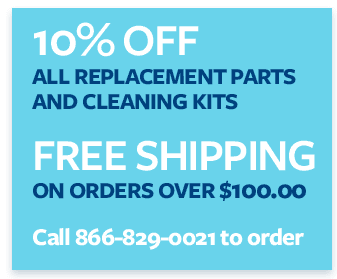
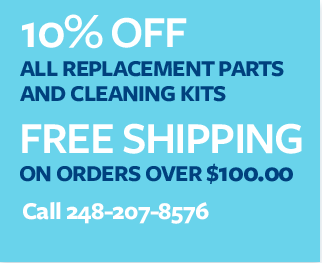
accessory & trade-in updates

diff --git a/src/store.js b/src/store.js
@@ -2,7 +2,7 @@ export default {
     accessories: {
         intro: [
             "Central vacuum systems are built to last for decades, but some components break or wear out with ordinary use. Zimm’s offers a full line of replacement parts for all makes and models of central vacuum systems - including Cyclovac, Vacuflo and Beam. Almost all parts are interchangeable, and can be used with any brand of system.",
-            "Additional accessories available for central vacuums make it easy for you to clean any surface and access hard to reach places. We offer free shipping on orders over $100.00 and 10% off all orders. Call Zimm's at 866-829-0021 and we will help you find just the right parts for replacement or for an upgrade to your system.",
+            "Additional accessories available for central vacuums make it easy for you to clean any surface and access hard to reach places. We offer free shipping on orders over $100.00 and 10% off all orders. Call Zimm's at 248-207-8576 and we will help you find just the right parts for replacement or for an upgrade to your system.",
             "Products may vary slightly from photo as inventory changes."
         ],
         parts: [
@@ -11,15 +11,15 @@ export default {
                 gallery: [
                     { 
                         img: "ck1.png",
-                        info: ["Deluxe Electric SEBO Kit", "30’ $695.00", "35’ $715.00"]
+                        info: ["Deluxe Electric SEBO Kit", "35’ $695.00"]
                     },
                     { 
                         img: "ck2.png",
-                        info: ["Zoom Luxe Premium Kit with Hose Sock", "30’ $475.00", "35’ $495.00"]
+                        info: ["Zoom Luxe Premium Kit with Hose Sock", "35’ $495.00"]
                     },
                     { 
                         img: "ck3.png",
-                        info: ["DECO Turbo Team Cleaning Kit", "30’ $375.00", "35’ $395.00"]
+                        info: ["DECO Turbo Team Cleaning Kit", "35’ $395.00"]
                     },
                     { 
                         img: "ck4.png",
@@ -39,15 +39,15 @@ export default {
                 gallery: [
                     { 
                         img: "hs1.png",
-                        info: ["Turbo Grip Hose", "30’ $163.00", "35’ $183.00"]
+                        info: ["Turbo Grip Hose", "35’ $195.00"]
                     },
                     { 
                         img: "hs2.png",
-                        info: ["e-Z Grip Hose", "30’ $173.00", "35’ $193.00"]
+                        info: ["E-Z Grip Hose", "35’ $210.00"]
                     },
                     { 
                         img: "hs3.png",
-                        info: ["Hose Sock with Zipper", "30’ $57.00", "35’ $63.00"]
+                        info: ["Hose Sock with Zipper", "30’ $59.00", "35’ $66.00"]
                     }
                 ]
             },
@@ -135,7 +135,7 @@ export default {
                     },
                     { 
                         img: "st3.png",
-                        info: ["RugRat $67.95"]
+                        info: ["RugRat $64.95"]
                     },
                     { 
                         img: "st4.png",

diff --git a/src/views/TradeIn.vue b/src/views/TradeIn.vue
@@ -41,12 +41,12 @@
                                 <h3 class="price plus-sign">+</h3>
                             </div>
                             <div class="promo">
-                                <h3 class="price">$65 OFF</h3>
-                                <p class="promo-text grey--text text--darken-2 mb-0">50% off $130 installation</p>
+                                <h3 class="price">$75 OFF</h3>
+                                <p class="promo-text grey--text text--darken-2 mb-0">50% off $150 installation</p>
                             </div>
                         </div>
 
-                        <h3 class="price savings text-center pb-4">$165 TOTAL SAVINGS</h3>
+                        <h3 class="price savings text-center pb-4">$175 TOTAL SAVINGS</h3>
                         
                     </v-flex>
                 </v-layout>

diff --git a/src/components/Footer.vue b/src/components/Footer.vue
@@ -41,8 +41,8 @@ export default {
     data(){
         return{
             contacts: [
-               {icon: 'phone', line1: 'Office', line2: '866-829-0021'},
-               {icon: 'alternate_email', line1: 'email', line2: 'info@zimmscentralvac.com'},
+               {icon: 'phone', line1: 'Phone', line2: '248-207-8576'},
+               {icon: 'alternate_email', line1: 'Email', line2: 'dan@zimmscentralvac.com'},
                {icon: 'email', line1: 'PO Box 776', line2: 'Farmington, Michigan 48332'},
             ],
             snackbar: false

diff --git a/src/components/Promo.vue b/src/components/Promo.vue
@@ -15,7 +15,7 @@
       </div>
       <div class="three">
           <p class="grey--text text--darken-2 grey-sub">Get all the cleaning and health benefits that your central vacuum offers.</p>
-          <p class="blue-sub">LIMITED TIME OFFER <br> Call now! 866-829-0021</p>
+          <p class="blue-sub">LIMITED TIME OFFER <br> Call now! 248-207-8576</p>
       </div>
   </div>
 </template>
